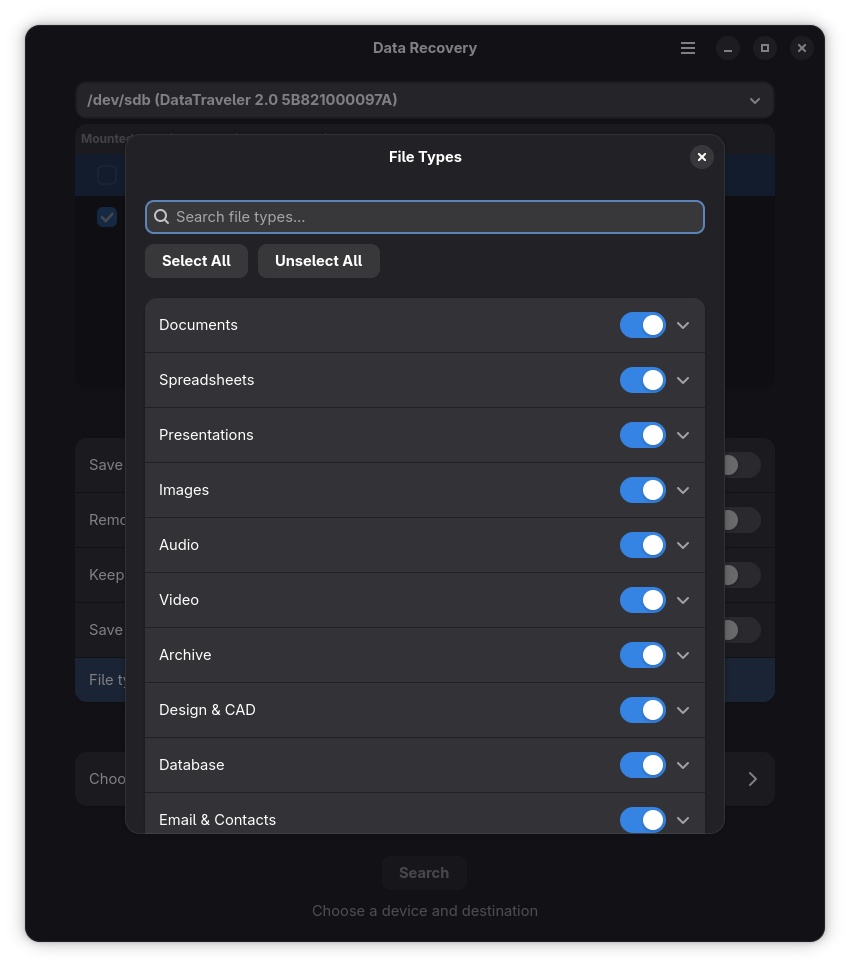
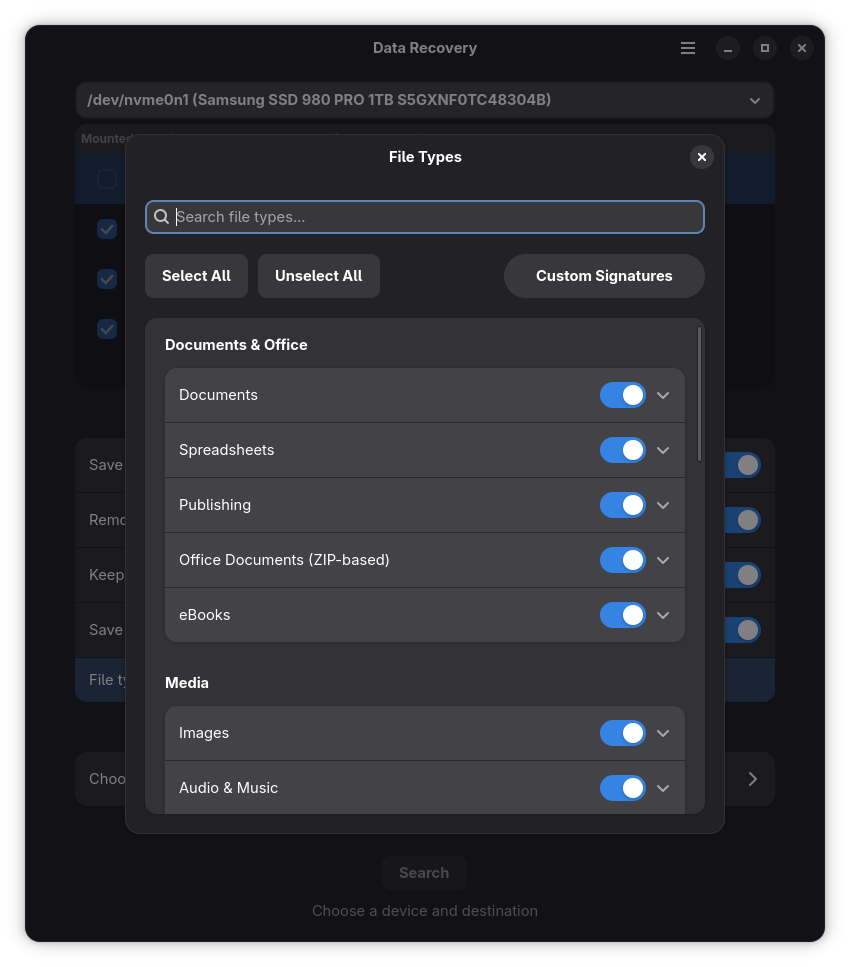
Release v0.4.1

diff --git a/CHANGELOG.md b/CHANGELOG.md
@@ -2,6 +2,10 @@
 
 ## [Unreleased]
 
+## [v0.4.1] - 2025-12-27
+### Added
+- Updated screenshots
+
 ## [v0.4.0] - 2025-12-23
 ### Added
 - SMART data monitoring with health indicators in device columnview
